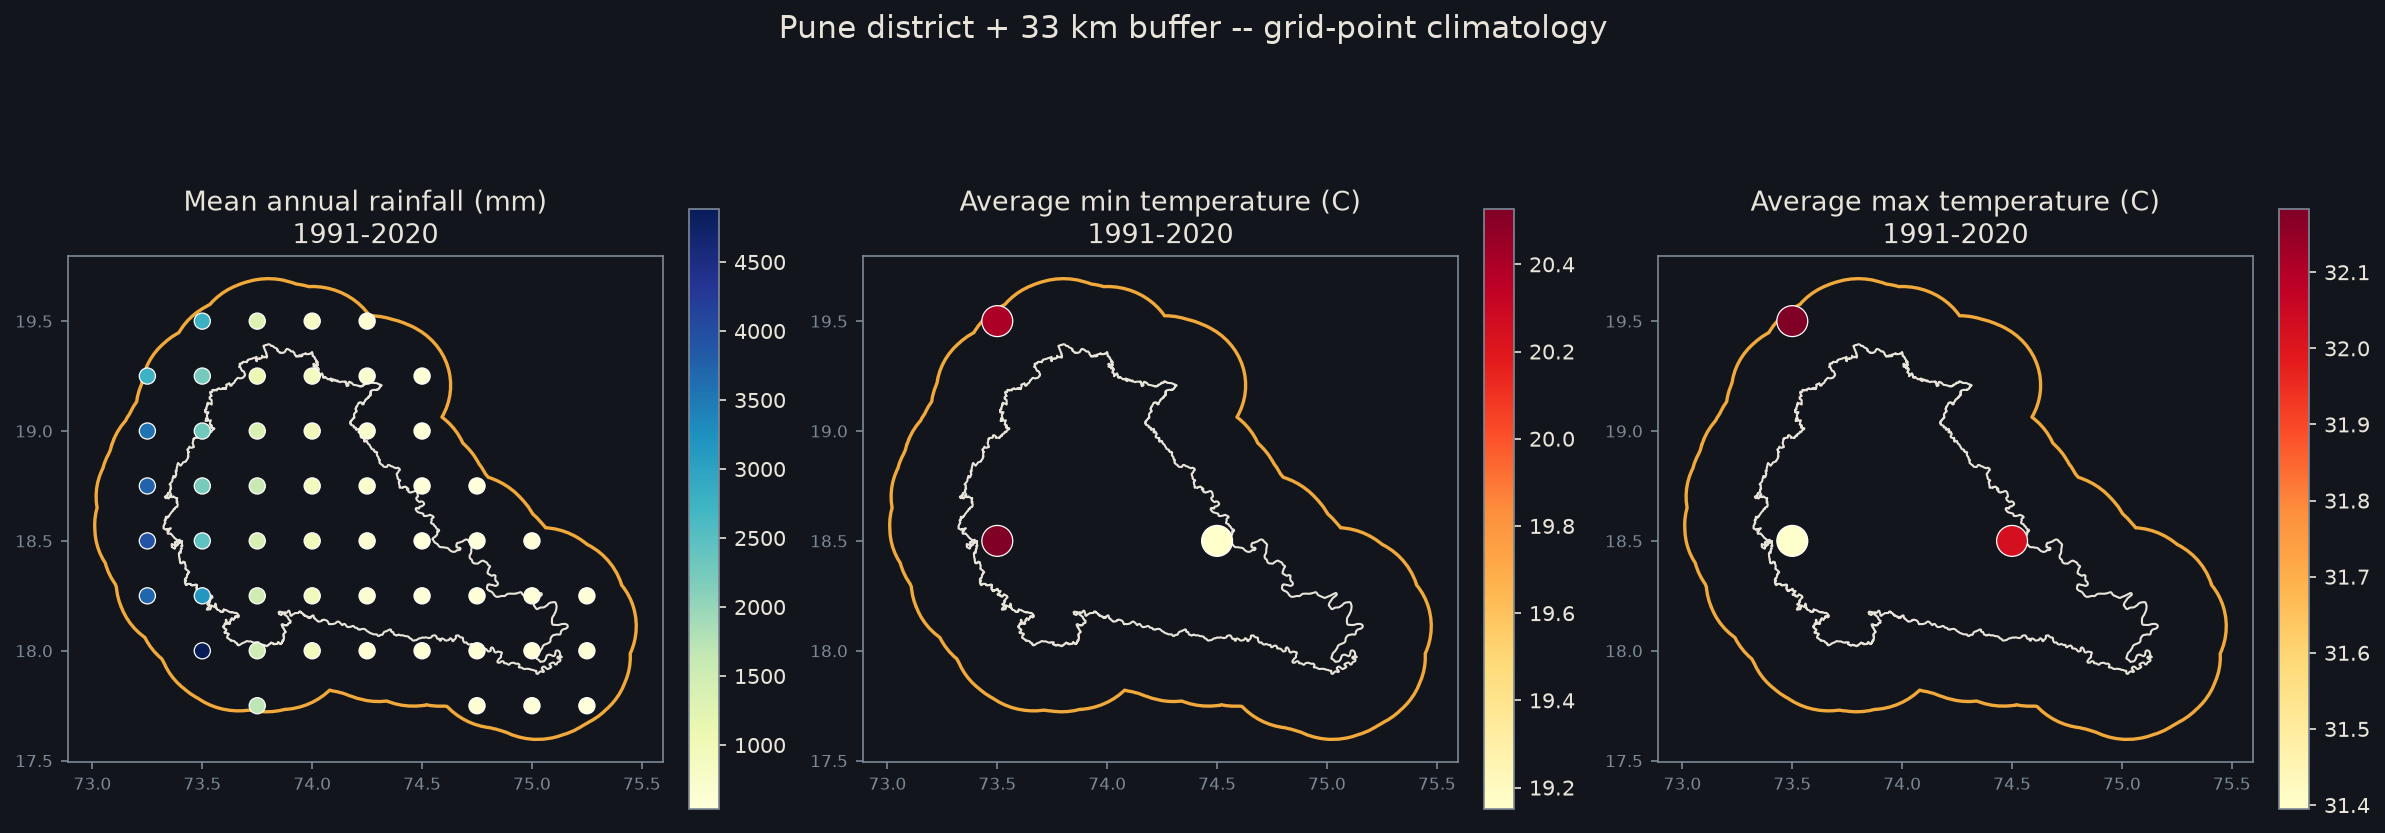
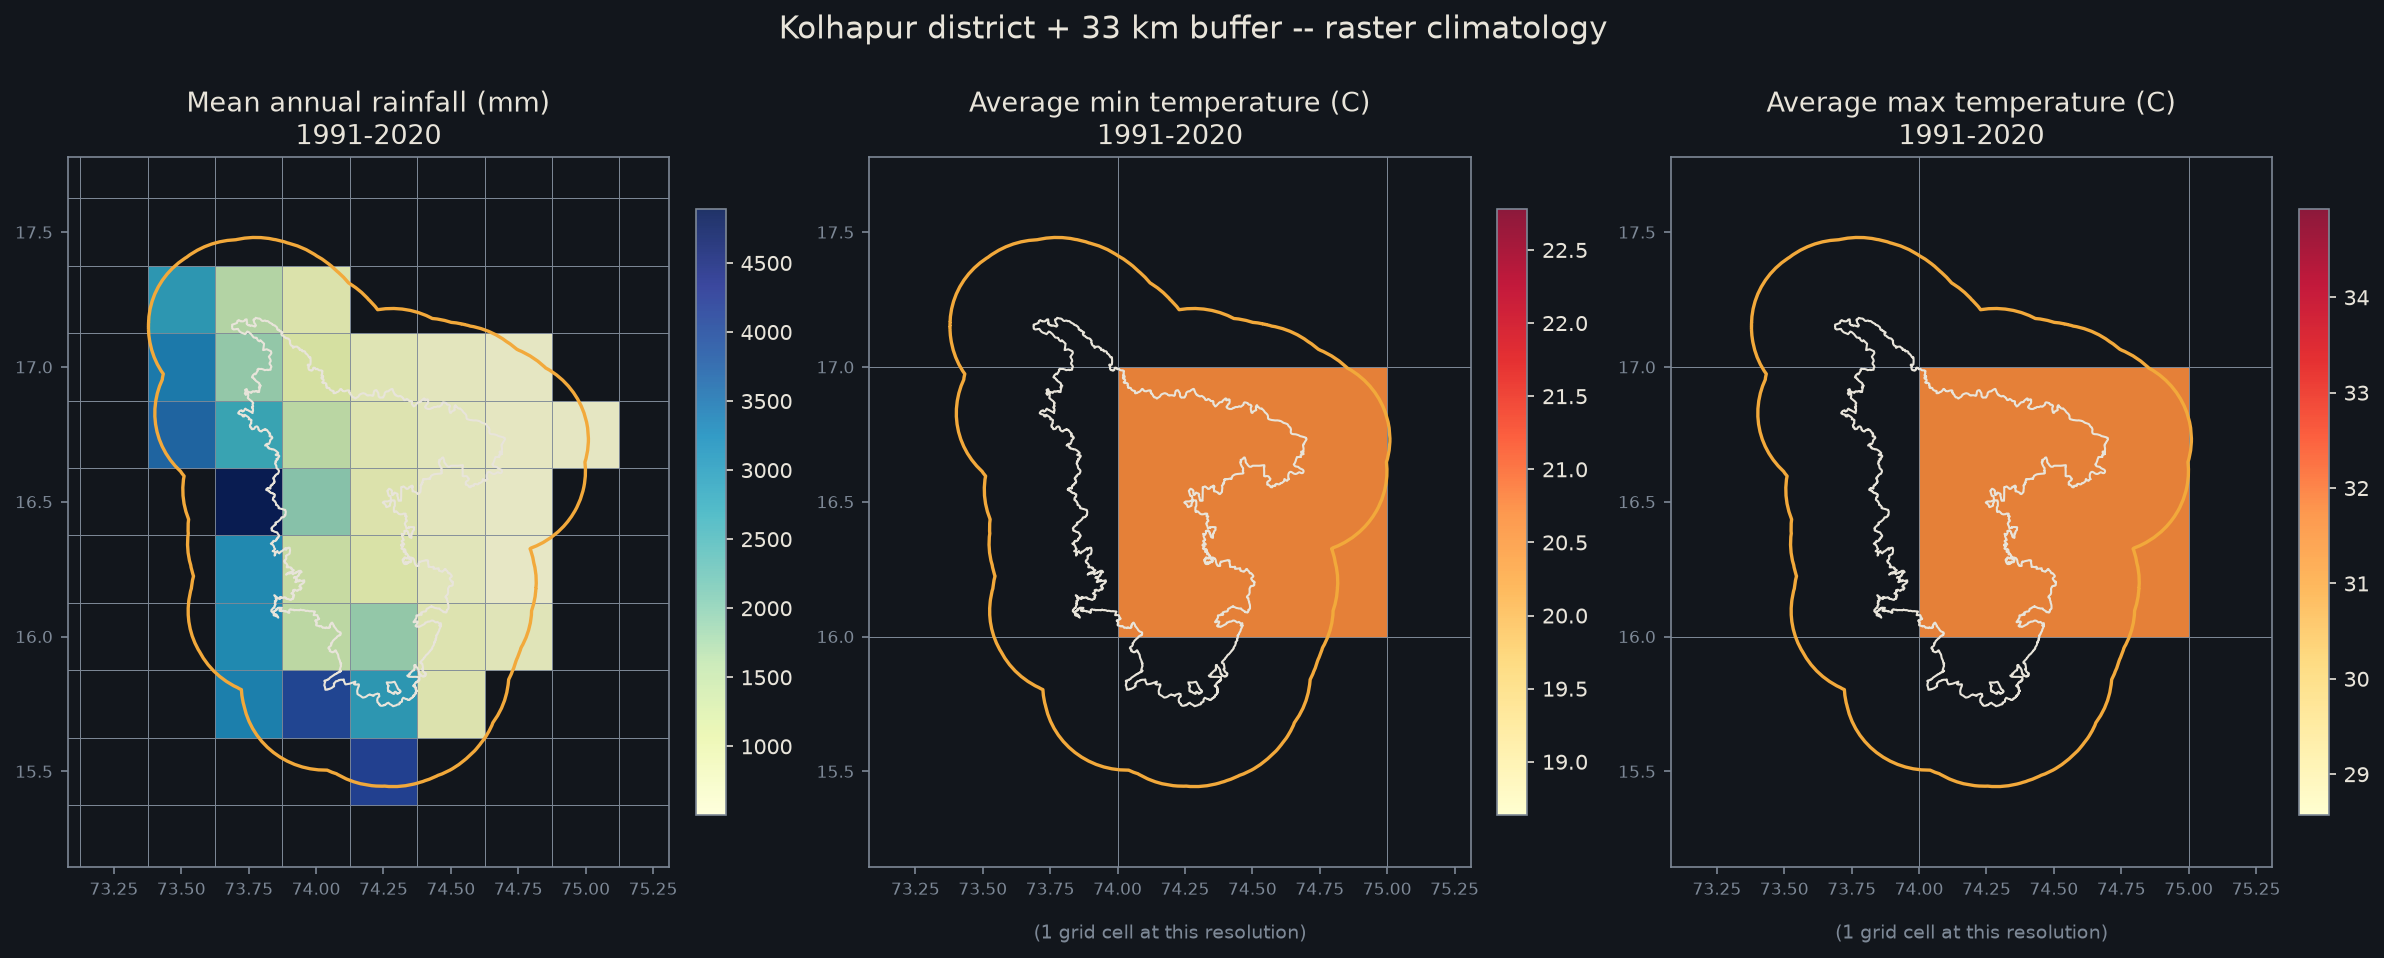
Kolhapur raster climatology; new slide on NaN vs. real data
Redid the 30-year climatology slide for Kolhapur instead of Pune, and
as a raster (pcolormesh boxes, unified axis limits across all three
panels) instead of scattered points. Temperature's single 1x1 degree
cell is now labeled directly on the map ("1 grid cell at this
resolution") so it reads as an honest resolution limit rather than a
rendering bug -- the box is genuinely bigger than the whole district.

New slide "Where's the data, where's the gap?": two all-India maps
from the same cached 1991-2020 data (already had it locally, zero
new downloads). Left: rainfall normal as a raster with amber dots
marking every valid cell on top -- makes it visible that only 4,964
of 17,415 grid cells (28.5%) have real data, the rest being ocean or
outside India, with the dots stopping exactly at the coastline and
borders. Right: Tmean = (Tmax+Tmin)/2, averaged directly across all
30 years (not summed, same rule as every other temperature stat in
this deck) -- 360/961 cells (37.5%) on the coarser 1 degree grid,
Himalayan north visibly cooler.

All computed from grd_backup/ with no network calls, since the
Kolhapur work already had 1991-2020 fully cached for all three
variables.

diff --git a/slides.md b/slides.md
@@ -100,11 +100,22 @@ Bloom's (Analyze): Why does buffering by 33 km in degrees give a different, wron
 
 ## A 30-year climatology, built the same way
 
-<img src="/static/climatology-map.png" alt="Maps of mean annual rainfall and average min/max temperature for Pune district and its 33 km buffer, 1991-2020" width="900">
+<img src="/static/climatology-map.png" alt="Raster maps of mean annual rainfall and average min/max temperature for Kolhapur district and its 33 km buffer, 1991-2020" width="900">
 
-Note: Same pipeline as the notebook (download, mask the fill value, clip to the buffer) but over 1991-2020 -- the WMO's 30-year normal period -- computed once offline rather than live, since it's 90 file downloads instead of 12 (~8 minutes, not seconds). Rainfall is additive, so its map is the MEAN of 30 annual SUMS -- add up each year's daily totals, then average those 30 totals. Temperature isn't additive -- summing daily degrees means nothing physically -- so tmin/tmax are a plain AVERAGE across every day of the 30 years, no summing step. Notice temperature gets only 3 dots to rainfall's 52: the 1 degree vs 0.25 degree resolution gap from the IMD gridded data slide, visible on an actual map for the first time.
+Note: Same pipeline as the notebook (download, mask the fill value, clip to the buffer) but over 1991-2020 -- the WMO's 30-year normal period -- computed once offline rather than live, since it's 90 file downloads instead of 12 (~8 minutes, not seconds). Rainfall is additive, so its map is the MEAN of 30 annual SUMS -- add up each year's daily totals, then average those 30 totals: 36 grid cells here for Kolhapur, ranging 504-4890mm, showing the Western Ghats gradient right at the district's edge. Temperature isn't additive -- summing daily degrees means nothing physically -- so tmin/tmax are a plain AVERAGE across every day of the 30 years, no summing step. Notice temperature is a single 1 degree x 1 degree box, bigger than the whole district -- the resolution gap from the IMD gridded data slide, visible as an honest limitation rather than a bug (labeled directly on the map).
 
 Bloom's (Analyze): Why does rainfall get a sum-then-mean treatment here while temperature gets a direct average instead?
+
+---
+
+## Where's the data, where's the gap?
+
+<div style="display:flex;gap:14px;justify-content:center;">
+<img src="/static/nan-rainfall-normal.png" alt="All-India rainfall normal raster with grid points overlaid, showing valid data vs NaN" width="440">
+<img src="/static/nan-tmean-avg.png" alt="All-India average Tmean raster, showing valid data vs NaN" width="440">
+</div>
+
+Note: Same 1991-2020 data, zoomed out to all of India, to make the pitfalls-slide point visible on an actual map. IMD's grid is a rectangle over India's lat/lon box -- most of that rectangle is ocean, or Pakistan, China, Nepal, Myanmar. Left map: colored boxes plus amber dots mark real data (4964 of 17415 cells, 28.5%); everywhere else is plain dark background -- NaN, not zero, not missing-by-accident, just never had land there. The dots stop exactly at the coastline and borders. Right map: Tmean = (Tmax+Tmin)/2, the standard meteorological approximation for daily mean temperature, averaged directly across all 30 years of daily values (not summed, same rule as always for temperature) -- only 360 of 961 cells (37.5%) on the coarser 1 degree grid, the Himalayan north visibly cooler than the rest of the country.
 
 ---
 
